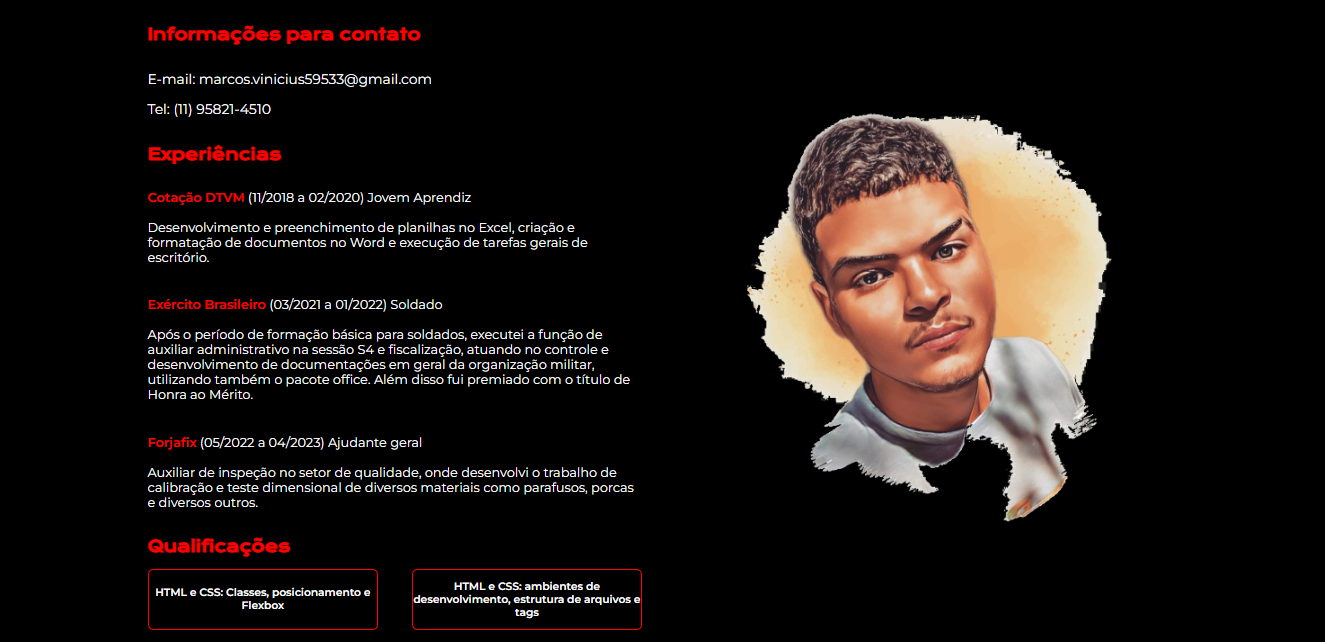
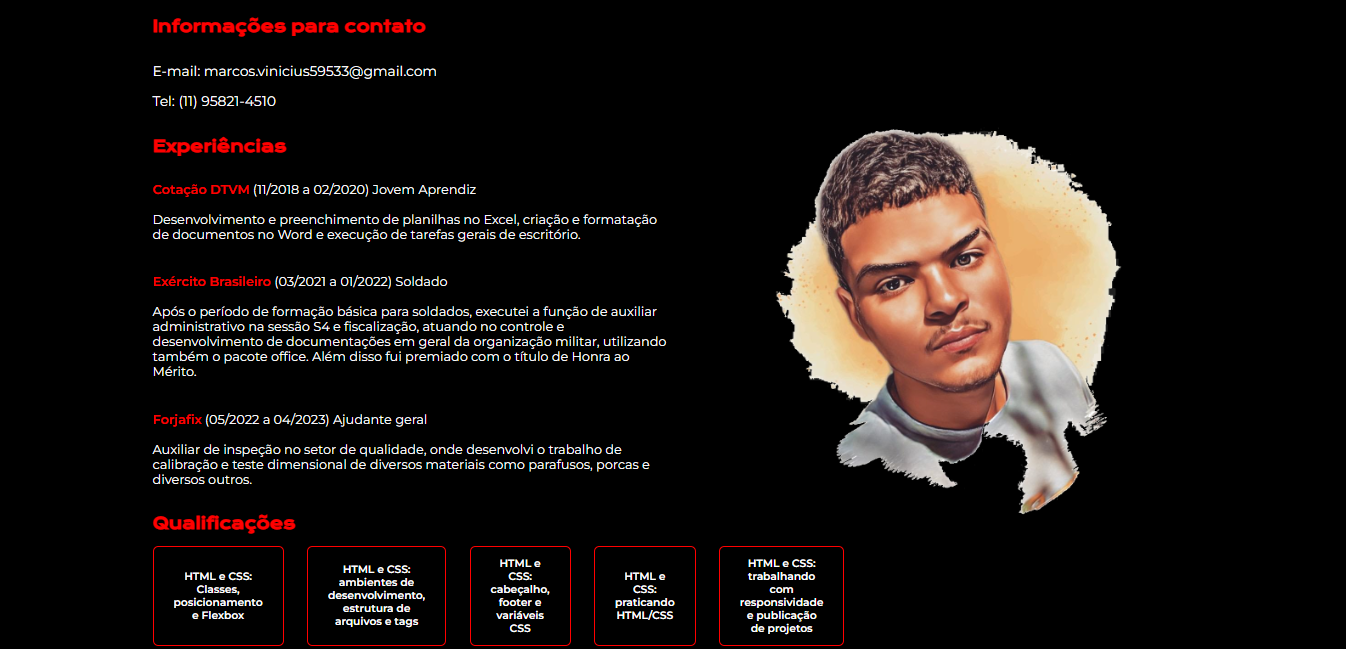
Add files via upload

diff --git a/curriculum.html b/curriculum.html
@@ -32,9 +32,11 @@
             </div>
             <h2 class="profile__content__contact"><strong class="featured-title">Qualificações</strong></h2>
             <div class="profile__content__link">
-                <a href="https://cursos.alura.com.br/certificate/3440206a-4004-42ff-9445-1d409bb1ce52" class="profile__link__style" target="_blank">HTML e CSS: Classes, posicionamento e Flexbox</a>
-                <br>
-                <a href="https://cursos.alura.com.br/certificate/92a9761b-62f4-4b64-b2c7-3fe48a89dab8" class="profile__link__style" target="_blank">HTML e CSS: ambientes de desenvolvimento, estrutura de arquivos e tags</a>
+                <a href="https://cursos.alura.com.br/certificate/3440206a-4004-42ff-9445-1d409bb1ce52" class="profile__link__style style_qualifications" target="_blank">HTML e CSS: Classes, posicionamento e Flexbox</a>
+                <a href="https://cursos.alura.com.br/certificate/92a9761b-62f4-4b64-b2c7-3fe48a89dab8" class="profile__link__style style_qualifications" target="_blank">HTML e CSS: ambientes de desenvolvimento, estrutura de arquivos e tags</a>
+                <a href="https://cursos.alura.com.br/certificate/3d4a86e8-1d3a-4c72-a00a-16f581be3320" class="profile__link__style style_qualifications" target="_blank">HTML e CSS: cabeçalho, footer e variáveis CSS</a>
+                <a href="https://cursos.alura.com.br/certificate/370200fd-242b-4e7c-9cb9-2709cba019d3" class="profile__link__style style_qualifications" target="_blank">HTML e CSS: praticando HTML/CSS</a>
+                <a href="https://cursos.alura.com.br/certificate/a80d2789-b090-4b1e-b023-5d8ce6fd8824" class="profile__link__style style_qualifications" target="_blank">HTML e CSS: trabalhando com responsividade e publicação de projetos</a>
             </div>
         </section>
         <img class="profile__image" src="assets/avatar1menor.png" alt="Foto sorrindo">

diff --git a/style/style.css b/style/style.css
@@ -98,6 +98,10 @@ color: var(--color-tertiary);
     text-decoration: none;
 }
 
+.style_qualifications {
+    padding: 20px 30px;
+}
+
 .profile__link__style:hover {
     background-color: var(--color-hover);
     color: var(--color-tertiary);
@@ -138,7 +142,7 @@ color: var(--color-tertiary);
 
 .profile__content__link {
     display: flex;
-    gap: 25px;
+    gap: 35px;
 }
 
 .works {
@@ -274,7 +278,9 @@ color: var(--color-tertiary);
     }
 
     .profile__content__link {
-        gap: 5%;
+        gap: 7px;
+        display: flex;
+        flex-direction: column;
     }
 
     .baseboard {
